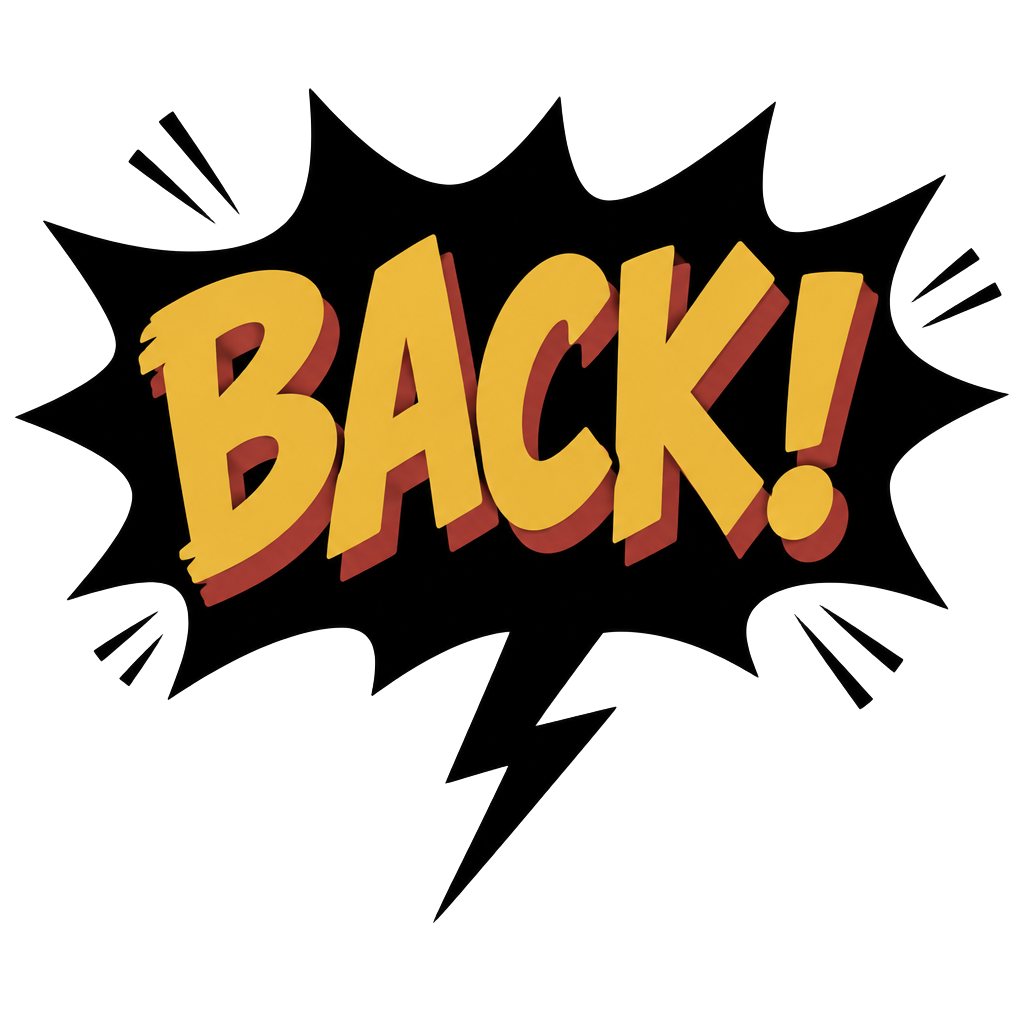
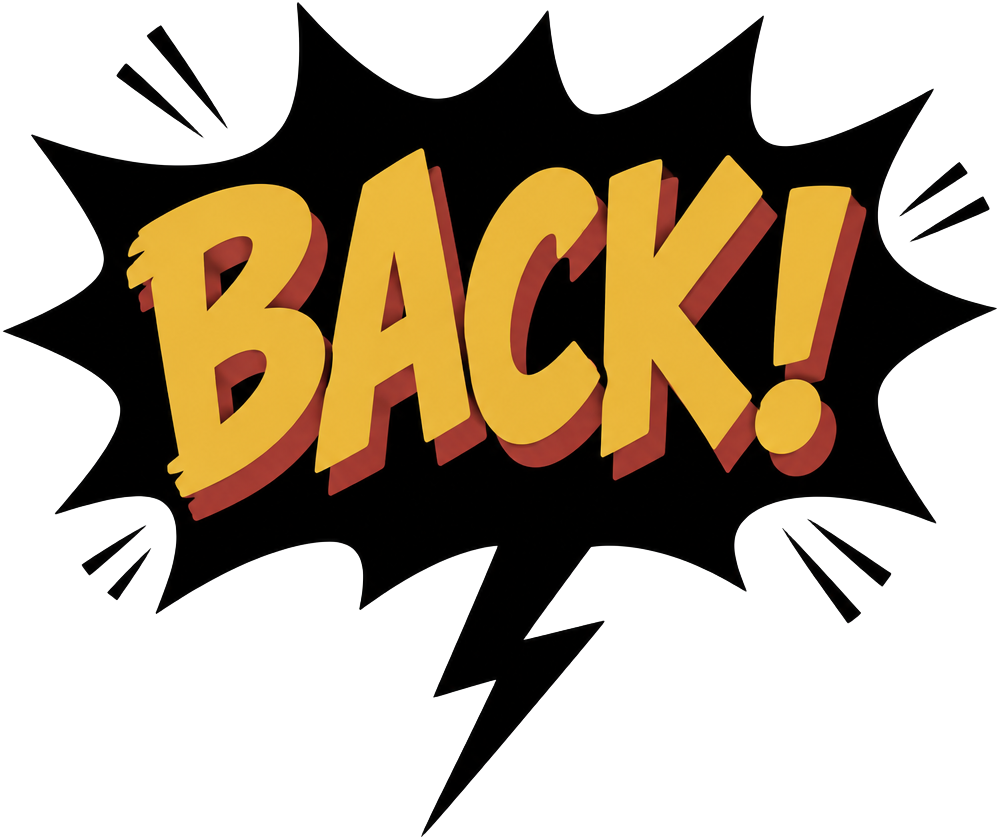
Changes

diff --git a/src/routes/share.tsx b/src/routes/share.tsx
@@ -1,8 +1,9 @@
-import { createFileRoute } from "@tanstack/react-router";
+import { createFileRoute, Link } from "@tanstack/react-router";
+import backArt from "@/assets/back-wordart.png";
 import { useEffect, type ReactNode } from "react";
 import { useState } from "react";
 import { Mail, MessageCircle } from "lucide-react";
-import { Page, FlowNav } from "@/components/brand/AppLayout";
+import { Page } from "@/components/brand/AppLayout";
 import { StackedCard } from "@/components/brand/StackedCard";
 import { buildAll } from "@/lib/checklists";
 import { buildEmailShare, buildShareMessage, smsShareHref, xShareHref } from "@/lib/share";
@@ -102,7 +103,11 @@ function SharePage() {
           ))}
         </ul>
       </Page>
-      <FlowNav back="/checklist" startOver={false} />
+      <div className="flex justify-center px-4 pb-6">
+        <Link to="/checklist" aria-label="Back" className="group rounded-2xl focus-visible:outline-none focus-visible:ring-2 focus-visible:ring-ring">
+          <img src={backArt} alt="BACK!" width={140} className="w-32 -rotate-6 transition-transform motion-safe:duration-150 group-hover:rotate-0 group-hover:scale-125 group-active:scale-110" />
+        </Link>
+      </div>
     </>
   );
 }
